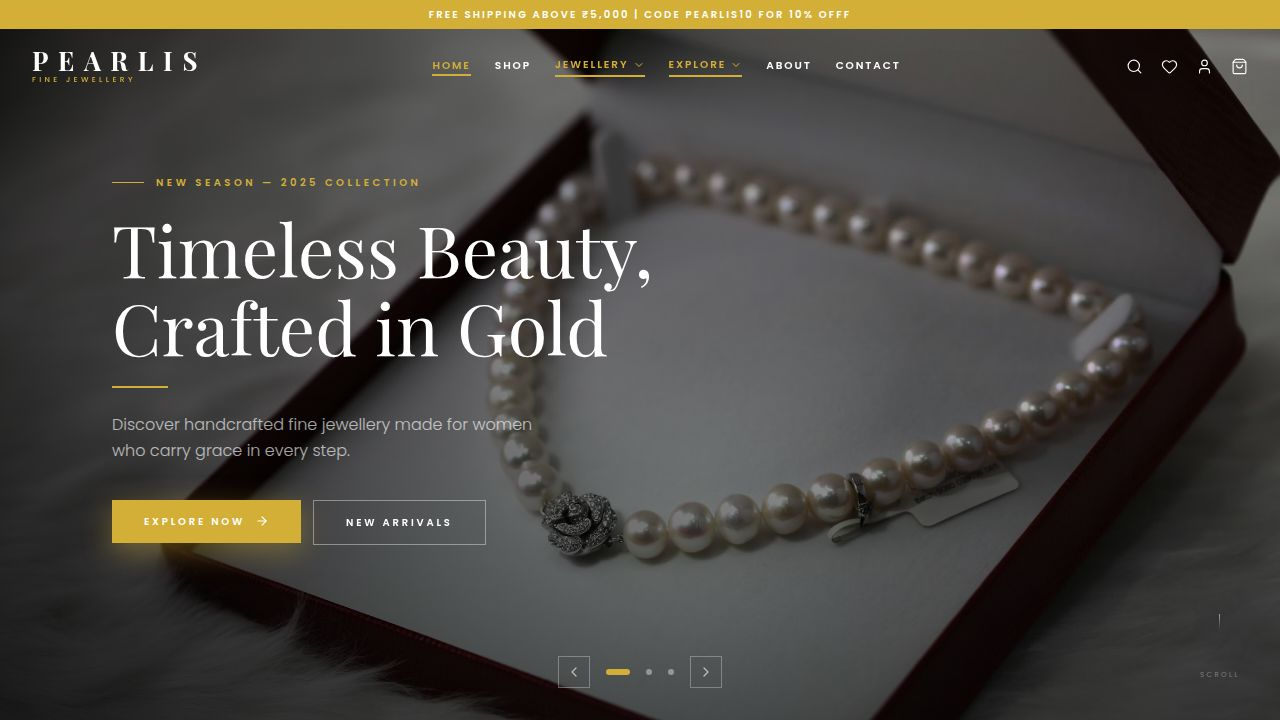
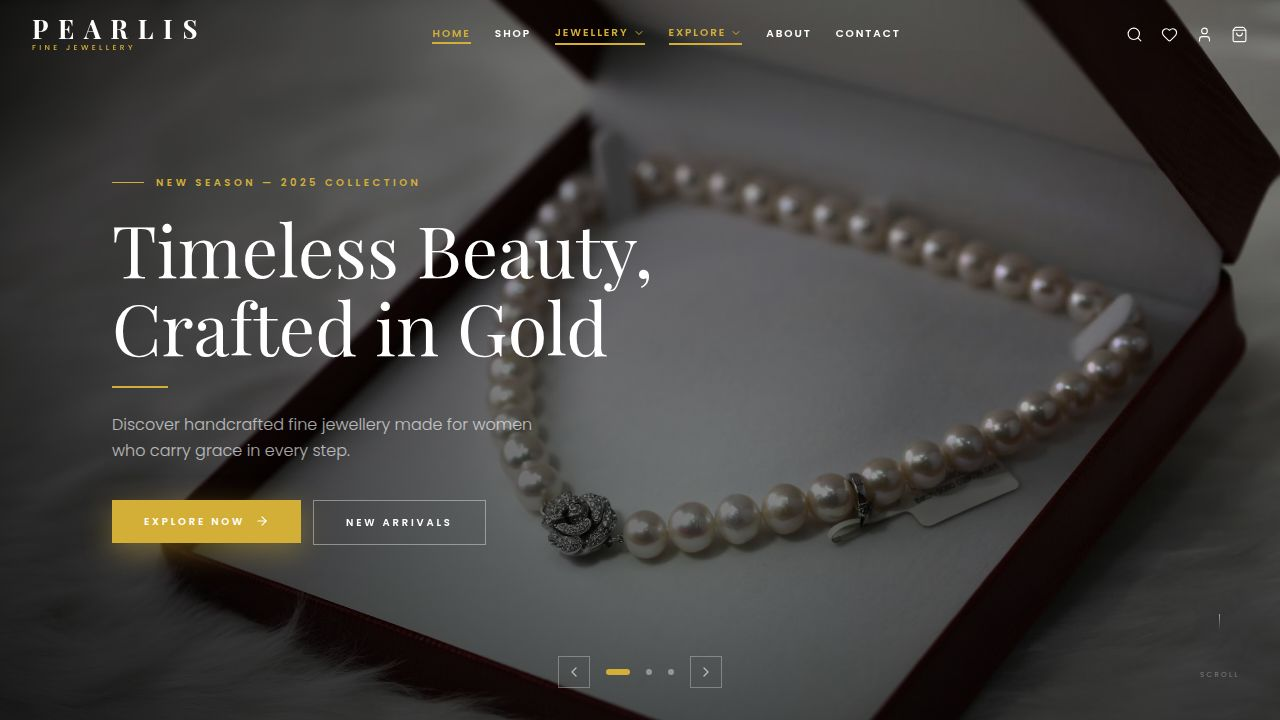
Update frontend configuration for deployment to Cloudflare Pages
Refactor vite.config.ts to conditionally load Replit plugins, remove unused asset alias, and adjust API proxy settings for Cloudflare Pages compatibility.

Replit-Commit-Author: Agent
Replit-Commit-Session-Id: 6c33b23b-4876-4bb6-b66a-e0d3b2689c73
Replit-Commit-Checkpoint-Type: full_checkpoint
Replit-Commit-Event-Id: 9df5035b-1ec7-47b4-8b97-ec4b5917d6c7
Replit-Commit-Screenshot-Url: https://storage.googleapis.com/screenshot-production-us-central1/acbba9e2-7d22-441d-a806-0667206d560a/6c33b23b-4876-4bb6-b66a-e0d3b2689c73/fwHjeCr
Replit-Helium-Checkpoint-Created: true

Changed region(s): [[0.0, 0.0, 1.0, 0.1222]]

diff --git a/artifacts/pearlis/vite.config.ts b/artifacts/pearlis/vite.config.ts
@@ -2,48 +2,42 @@ import { defineConfig } from "vite";
 import react from "@vitejs/plugin-react";
 import tailwindcss from "@tailwindcss/vite";
 import path from "path";
-import runtimeErrorOverlay from "@replit/vite-plugin-runtime-error-modal";
+
+const isProduction = process.env.NODE_ENV === "production";
+const isReplit = process.env.REPL_ID !== undefined;
 
 const rawPort = process.env.PORT;
-
-if (!rawPort && process.env.NODE_ENV !== "production") {
-  throw new Error(
-    "PORT environment variable is required but was not provided.",
-  );
+if (!rawPort && !isProduction) {
+  throw new Error("PORT environment variable is required but was not provided.");
 }
-
 const port = Number(rawPort ?? "3000");
-
 if (rawPort && (Number.isNaN(port) || port <= 0)) {
   throw new Error(`Invalid PORT value: "${rawPort}"`);
 }
 
 const basePath = process.env.BASE_PATH ?? "/";
 
+const replitPlugins =
+  !isProduction && isReplit
+    ? [
+        await import("@replit/vite-plugin-runtime-error-modal").then((m) =>
+          m.default()
+        ),
+        await import("@replit/vite-plugin-cartographer").then((m) =>
+          m.cartographer({ root: path.resolve(import.meta.dirname, "..") })
+        ),
+        await import("@replit/vite-plugin-dev-banner").then((m) =>
+          m.devBanner()
+        ),
+      ]
+    : [];
+
 export default defineConfig({
   base: basePath,
-  plugins: [
-    react(),
-    tailwindcss(),
-    runtimeErrorOverlay(),
-    ...(process.env.NODE_ENV !== "production" &&
-    process.env.REPL_ID !== undefined
-      ? [
-          await import("@replit/vite-plugin-cartographer").then((m) =>
-            m.cartographer({
-              root: path.resolve(import.meta.dirname, ".."),
-            }),
-          ),
-          await import("@replit/vite-plugin-dev-banner").then((m) =>
-            m.devBanner(),
-          ),
-        ]
-      : []),
-  ],
+  plugins: [react(), tailwindcss(), ...replitPlugins],
   resolve: {
     alias: {
       "@": path.resolve(import.meta.dirname, "src"),
-      "@assets": path.resolve(import.meta.dirname, "..", "..", "attached_assets"),
     },
     dedupe: ["react", "react-dom"],
   },
@@ -57,14 +51,12 @@ export default defineConfig({
     strictPort: false,
     host: "0.0.0.0",
     allowedHosts: true,
-    fs: {
-      strict: true,
-    },
+    fs: { strict: true },
     proxy: {
       "/api": {
         target: process.env.RENDER_API_URL ?? "http://localhost:8080",
         changeOrigin: true,
-        secure: true,
+        secure: false,
       },
     },
   },